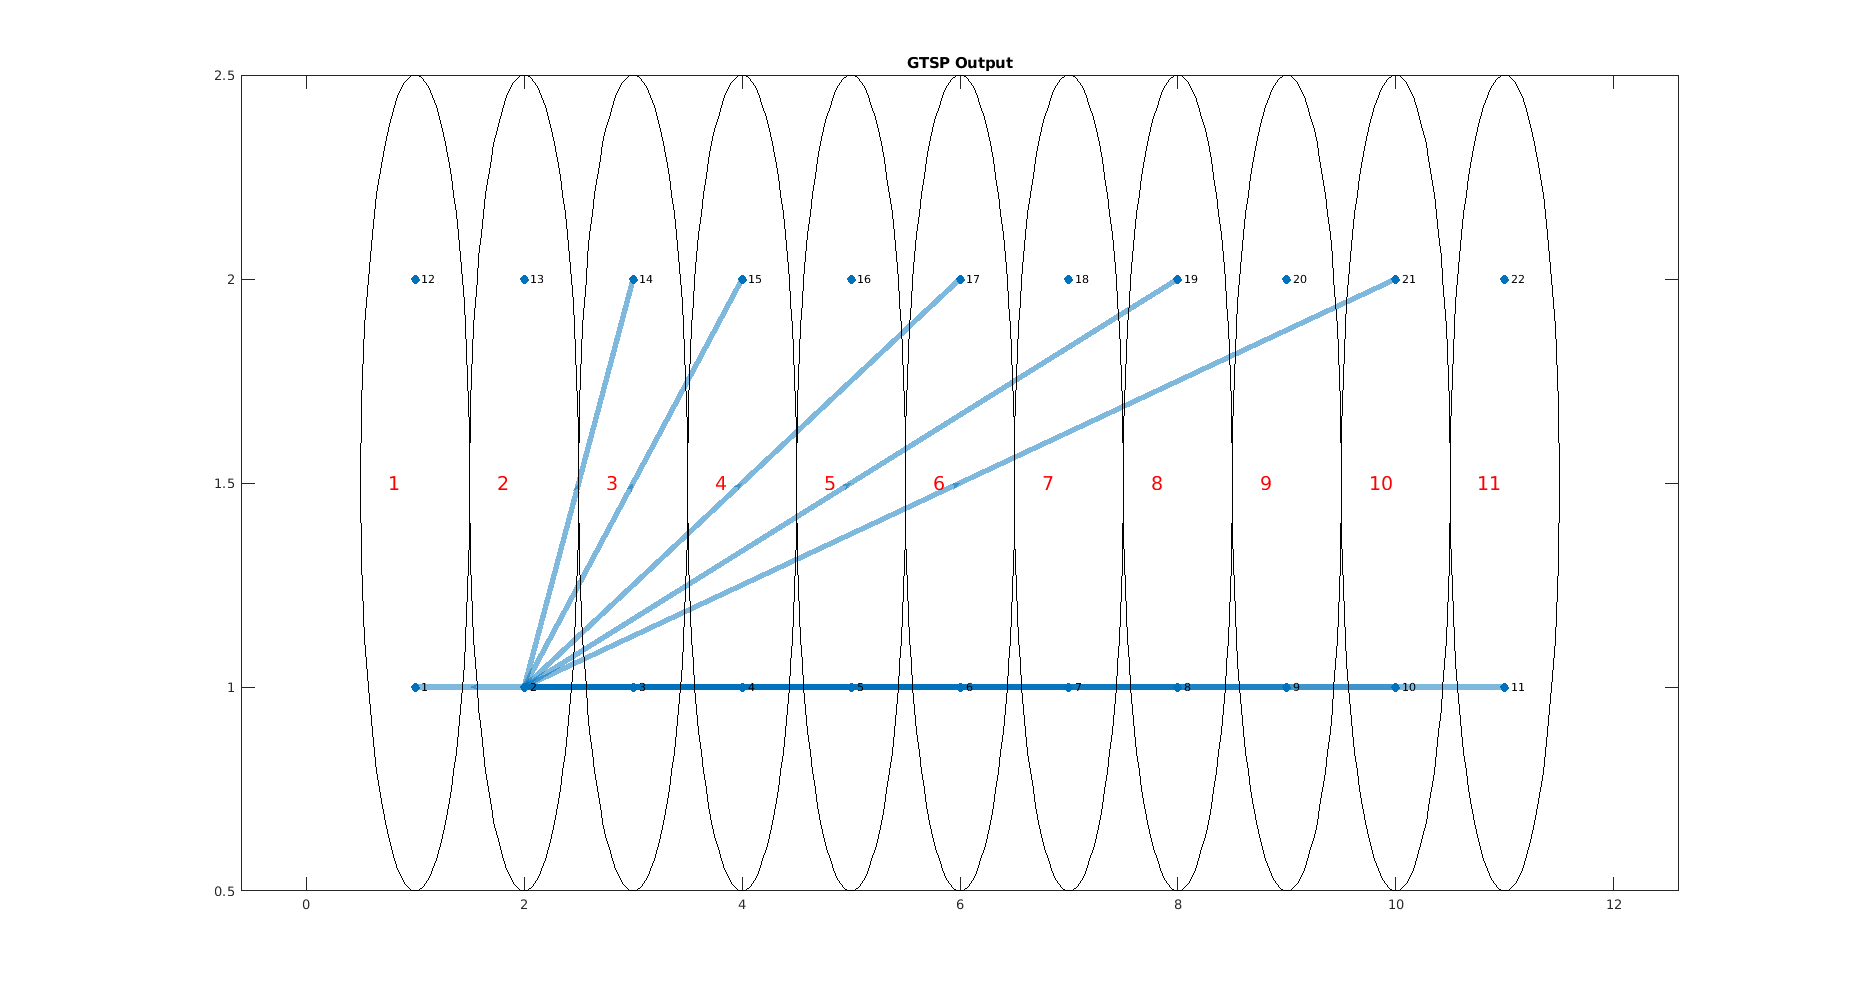
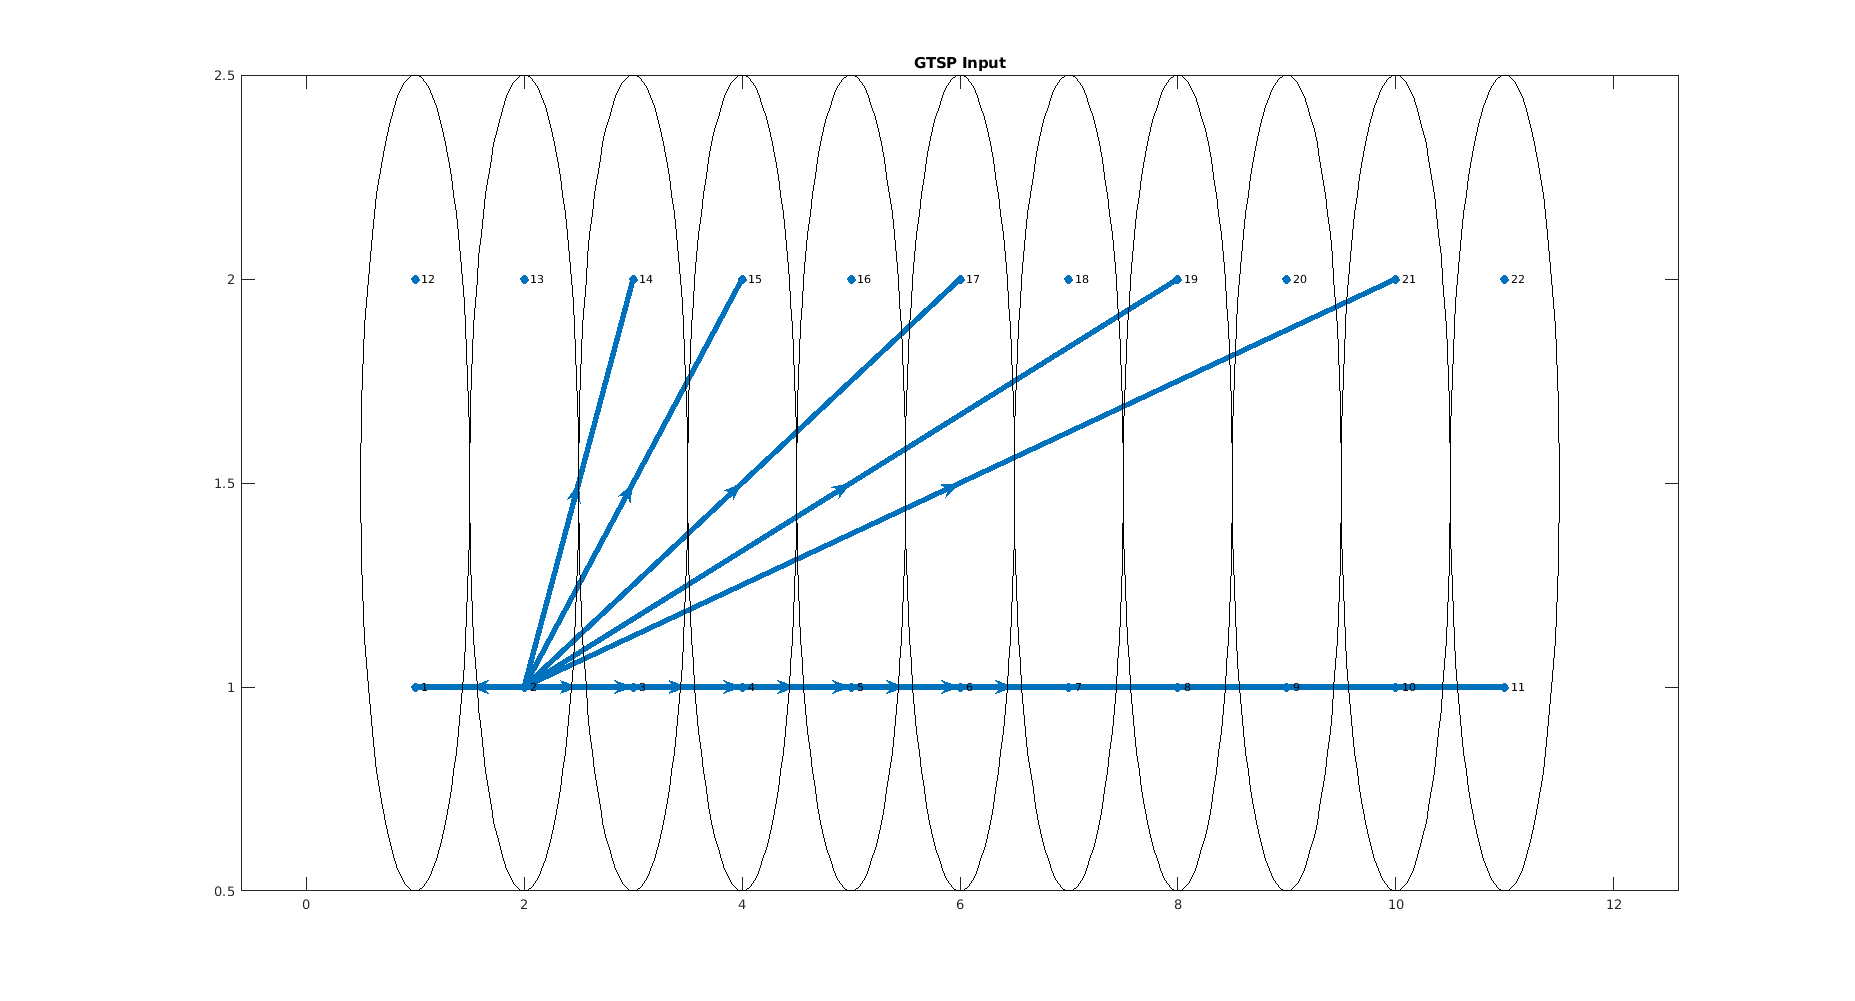
updated figure for paper

diff --git a/gtspCode/functions/graphingClusterOrdered.m b/gtspCode/functions/graphingClusterOrdered.m
@@ -69,11 +69,11 @@ for i = 1:numPoints/2                                                 % clusters
     pos = [xRec, yRec, wRec, hRec];                                 % creates oval, but needs to be fixed
     rectangle('Position', pos, 'Curvature', [1 1])
     xStr = num2str(i);
-    str = sprintf('%s', xStr);
-    text(xRec+(wRec/4), yRec+hRec/2, str, 'Color', 'red', 'Fontsize', 14);
+%     str = sprintf('%s', xStr);
+%     text(xRec+(wRec/4), yRec+hRec/2, str, 'Color', 'red', 'Fontsize', 14);
 end
 
-title('GTSP Output')
+title('GTSP Input')
 
 
 end

diff --git a/gtspCode/rosFunctions/bag2mat.m b/gtspCode/rosFunctions/bag2mat.m
@@ -42,7 +42,7 @@ T = [21, 20, 19, 7, 17, 5, 15, 14, 13, 1];
 for i = 1:numPointsInit
     for j = 1:numPointsInit
         temp = gtspMatrix(i,j);
-        if temp ~= -1 && i == 3
+        if temp ~= -1 && i == 2
             SInit = [SInit, i];
             TInit = [TInit, j];
         end
